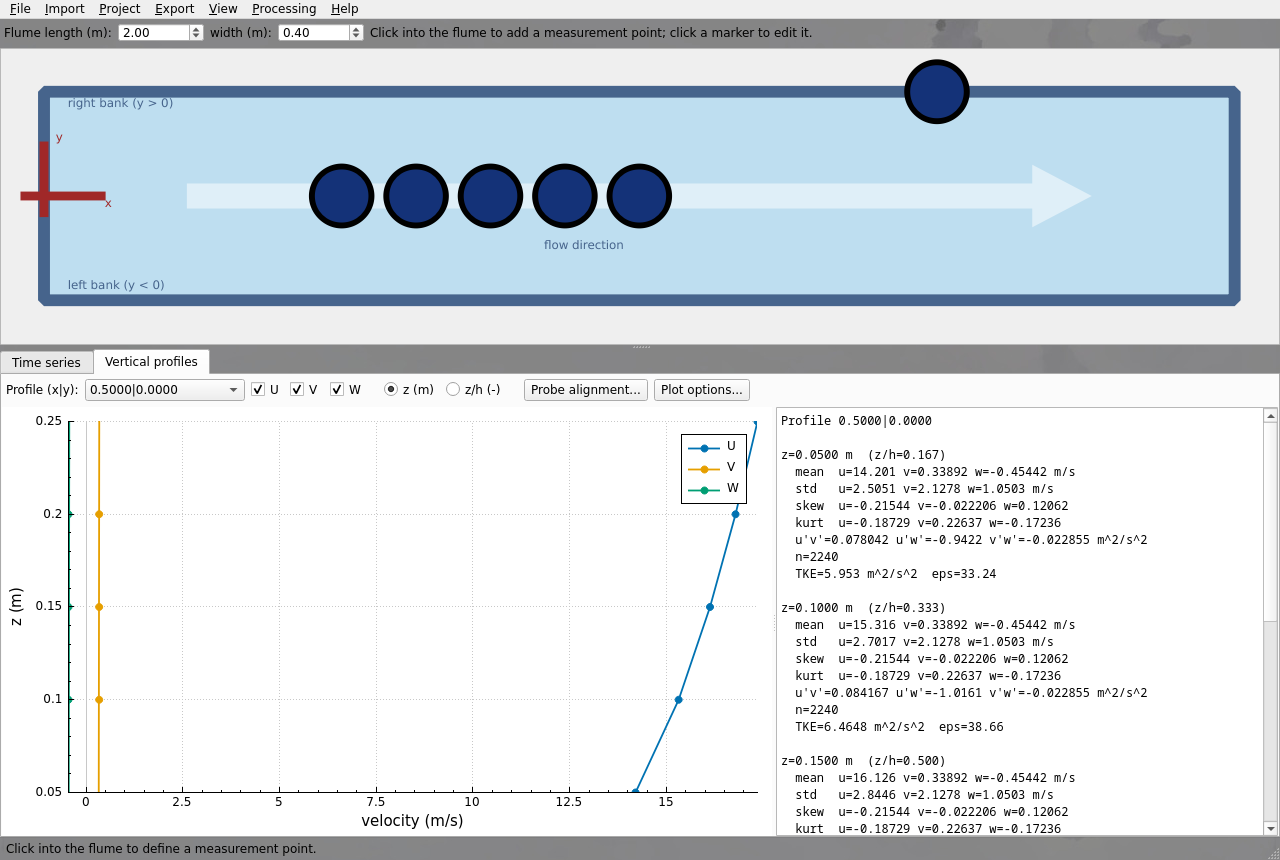
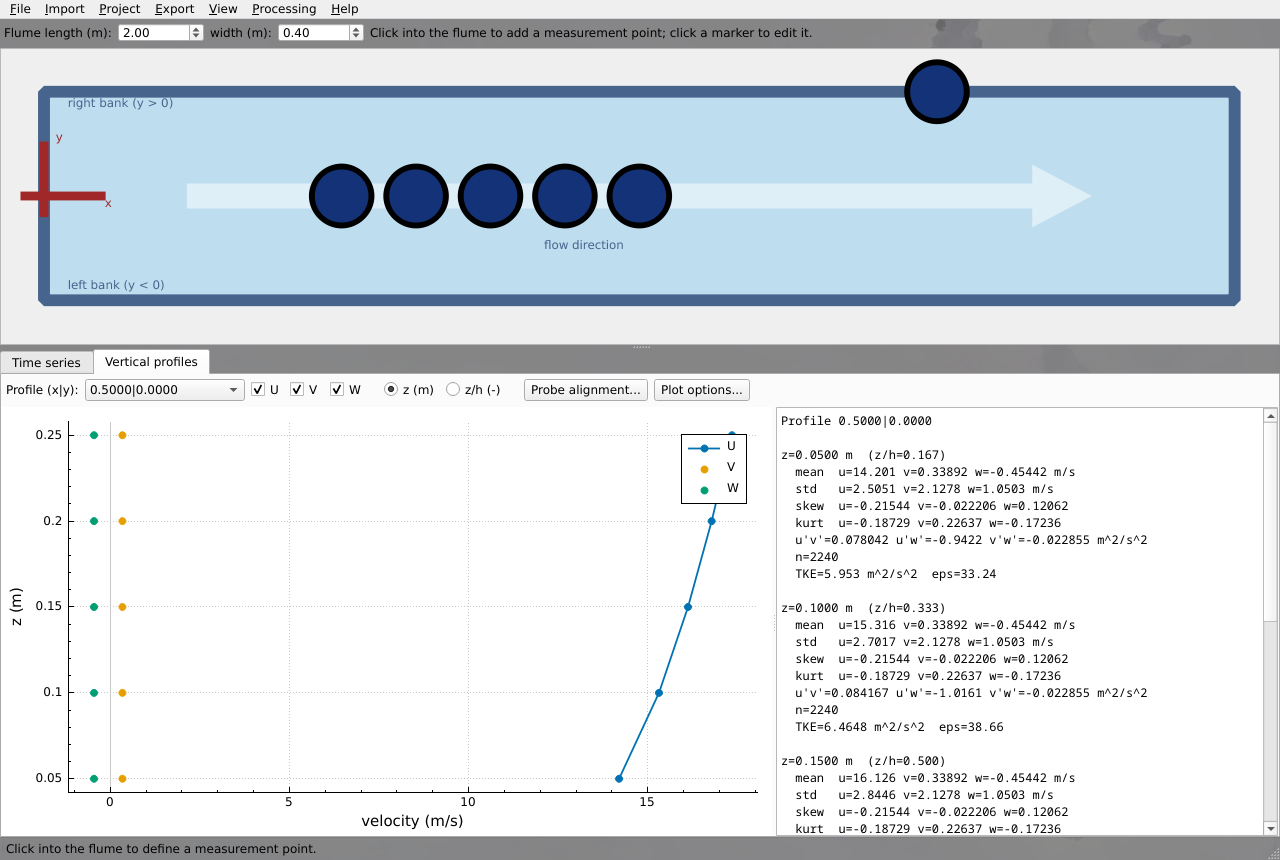
Draw vertical profiles bottom-up, with markers only for V and W
The profile graphs were keyed on velocity, and QCPGraph sorts its data by
key, so the polyline connected the points in order of increasing velocity
instead of increasing z: every profile came out as a zigzag. The graphs are
now keyed on the vertical axis, and only U is joined by a line, because V
and W are near-zero residuals whose sign flips from height to height.

Also in this pass:

- profile points are sorted by z, so the statistics panel reads in the same
  order as the plot; FlowTracker records a vertical top-down
- the axis ranges get 8 percent of padding, because rescaleAxes() fits the
  data exactly and sliced the lowest and highest marker in half. In the lab
  example this makes the negative mean W visible at all
- restoreState() looked the profile up with findText(), but saveState()
  writes the x-y key, which is the combo's user data. In field mode the item
  text is the station label, so the saved profile selection was silently
  ignored in every project file and in the field example

The documentation gains a note on why V and W of a field survey are often as
large as U: slack water near a bank has no dominant component, and the
instrument's standard error for the vertical component is about twice the
horizontal one. Checked against the FlowTracker2 reference file: the means
ADV-Explorer computes match its own DespikedVelocity values.

Bump the version to 0.2.4.

Claude-Session: https://claude.ai/code/session_015HTUQvGcB73b4CY17PJ6T2

diff --git a/src/gui/ProfileFrame.cpp b/src/gui/ProfileFrame.cpp
@@ -25,6 +25,7 @@
 #include <QVBoxLayout>
 #include <QtMath>
 
+#include <algorithm>
 #include <cmath>
 
 using namespace adv;
@@ -214,11 +215,20 @@ void ProfileFrame::rebuildPlot()
     m_statsPanel->clear();
 
     const QString key = currentProfileKey();
-    const QList<QUuid> ids = m_model->profilePoints(key);
+    QList<QUuid> ids = m_model->profilePoints(key);
     if (ids.isEmpty()) {
         m_plot->replot();
         return;
     }
+    // bottom-up, so the statistics panel reads in the same order as the plot;
+    // import order is whatever the instrument recorded, top-down for FlowTracker
+    std::sort(ids.begin(), ids.end(), [this](const QUuid &a, const QUuid &b) {
+        const MeasurementPoint *pa = m_model->point(a);
+        const MeasurementPoint *pb = m_model->point(b);
+        if (!pa || !pb)
+            return pb != nullptr;
+        return pa->z < pb->z;
+    });
 
     const bool relative = m_zhRadio->isChecked();
     m_plot->yAxis->setLabel(relative ? tr("z/h (-)") : tr("z (m)"));
@@ -227,12 +237,15 @@ void ProfileFrame::rebuildPlot()
         QCheckBox *check;
         QColor color;
         QString name;
+        bool joinByLine; ///< draw a profile line, or markers only
     };
-    // Okabe-Ito colors
+    // Okabe-Ito colors. Only the streamwise component is joined by a line: V and
+    // W are near-zero residuals whose sign flips from height to height, so a line
+    // through them suggests a vertical structure that the data does not contain.
     const QList<Component> components = {
-        {m_uCheck, QColor("#0072B2"), QStringLiteral("U")},
-        {m_vCheck, QColor("#E69F00"), QStringLiteral("V")},
-        {m_wCheck, QColor("#009E73"), QStringLiteral("W")},
+        {m_uCheck, QColor("#0072B2"), QStringLiteral("U"), true},
+        {m_vCheck, QColor("#E69F00"), QStringLiteral("V"), false},
+        {m_wCheck, QColor("#009E73"), QStringLiteral("W"), false},
     };
 
     QVector<double> zValues;
@@ -293,12 +306,17 @@ void ProfileFrame::rebuildPlot()
     for (int c = 0; c < components.size(); ++c) {
         if (!components.at(c).check->isChecked() || means.at(c).isEmpty())
             continue;
-        QCPGraph *graph = m_plot->addGraph(m_plot->xAxis, m_plot->yAxis);
-        graph->setData(means.at(c), zValues);
+        // The key axis is the vertical one: a graph keyed on velocity would sort
+        // its points by velocity and connect them in that order, which turned
+        // every profile into a zigzag instead of a line rising with z.
+        QCPGraph *graph = m_plot->addGraph(m_plot->yAxis, m_plot->xAxis);
+        graph->setData(zValues, means.at(c));
         graph->setName(components.at(c).name);
         QPen pen(components.at(c).color);
         pen.setWidthF(1.8);
         graph->setPen(pen);
+        graph->setLineStyle(components.at(c).joinByLine ? QCPGraph::lsLine
+                                                        : QCPGraph::lsNone);
         graph->setScatterStyle(QCPScatterStyle(QCPScatterStyle::ssCircle,
                                                components.at(c).color,
                                                components.at(c).color, 7.0));
@@ -306,6 +324,10 @@ void ProfileFrame::rebuildPlot()
 
     m_statsPanel->setPlainText(statsText);
     m_plot->rescaleAxes();
+    // rescaleAxes() fits the data exactly, which cuts the markers of the lowest
+    // and highest point in half against the axis rect
+    m_plot->xAxis->scaleRange(1.08, m_plot->xAxis->range().center());
+    m_plot->yAxis->scaleRange(1.08, m_plot->yAxis->range().center());
     m_plot->replot();
 }
 
@@ -376,7 +398,12 @@ QJsonObject ProfileFrame::saveState() const
 
 void ProfileFrame::restoreState(const QJsonObject &state)
 {
-    const int index = m_profileCombo->findText(state[QStringLiteral("profile")].toString());
+    // saveState() writes the x-y key, which is the combo's user data; in field
+    // mode the item text is the station label, so findText() would never match
+    const QString profile = state[QStringLiteral("profile")].toString();
+    int index = m_profileCombo->findData(profile);
+    if (index < 0)
+        index = m_profileCombo->findText(profile);
     if (index >= 0)
         m_profileCombo->setCurrentIndex(index);
     m_uCheck->setChecked(state[QStringLiteral("u")].toBool(true));

diff --git a/docs/conf.py b/docs/conf.py
@@ -3,7 +3,7 @@
 project = "ADV-Explorer"
 author = "Sebastian Schwindt"
 copyright = "2026, Sebastian Schwindt"
-release = "0.2.3"
+release = "0.2.4"
 
 extensions = []
 

diff --git a/docs/usage.rst b/docs/usage.rst
@@ -119,7 +119,10 @@ Vertical profiles and probe alignment
 
 The *Vertical profiles* tab plots the mean U, V, and W velocities of all
 points sharing one x-y position against z, or against the relative depth z/h
-once water depths are set.
+once water depths are set. Only the streamwise component U is joined by a
+line. V and W are drawn as markers alone, because they are near-zero
+residuals whose sign usually flips from height to height: a line through them
+would suggest a vertical structure that the measurement does not resolve.
 
 .. figure:: img/vertical-profiles.png
    :alt: Vertical profile view with statistics panel
@@ -273,6 +276,26 @@ A FlowTracker2 point is roughly 60 samples taken at 2 Hz over 30 s. That resolve
 
 
 Despiking defaults also differ. The instrument reports a correlation score on a 0 to 1 scale, rescaled here to 0 to 100 for consistency; its observed range is approx. 5 to 72 with a median near 35, so the Vectrino default threshold of 70 would reject nearly every sample. Field imports therefore start with the correlation filter switched off and the SNR filter set to the threshold recorded in the file itself.
+
+Reading V and W of a field survey
+~~~~~~~~~~~~~~~~~~~~~~~~~~~~~~~~~
+
+In a field profile, V and W are frequently of the same size as U, or larger,
+and that is usually the measurement rather than an error:
+
+* In slack water near a bank the flow is a few millimetres per second in every
+  direction, so no component dominates and the flow direction is meaningless.
+  FlowTracker2 says the same thing through its own flow angle and its
+  ``BoundaryInterference`` warning for such points.
+* The vertical component is the noisiest one the instrument delivers: its
+  reported standard error for Z is roughly twice the one for X and Y, a
+  consequence of the beam geometry. The scatter of W over 60 samples is
+  therefore largely instrument noise, not turbulence.
+
+Both are reasons to compare U between stations first and to treat V and W as
+indicators of alignment and data quality. The probe alignment correction
+described above works in field mode too.
+
 
 Basemap and offline use
 ~~~~~~~~~~~~~~~~~~~~~~~
